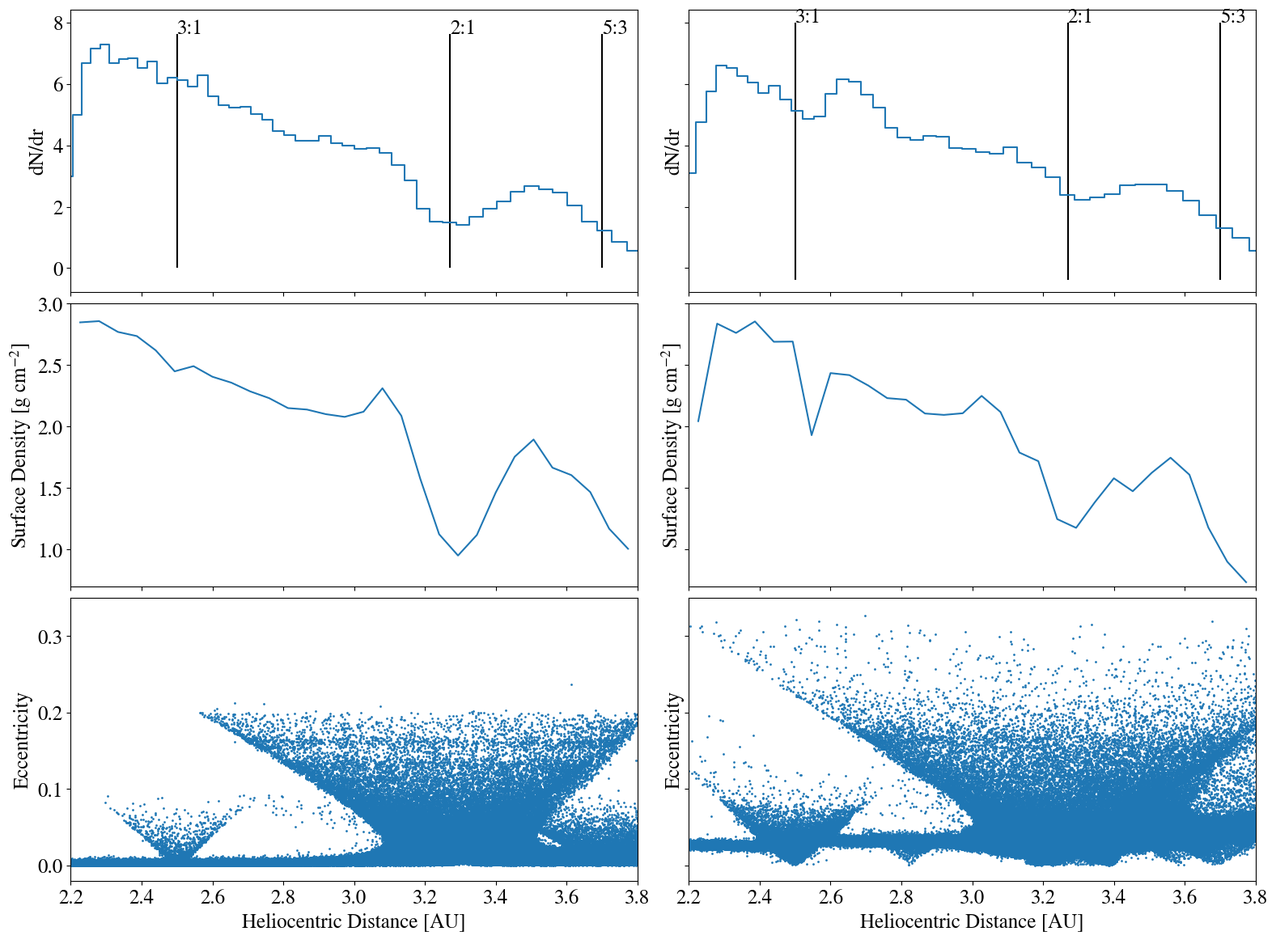
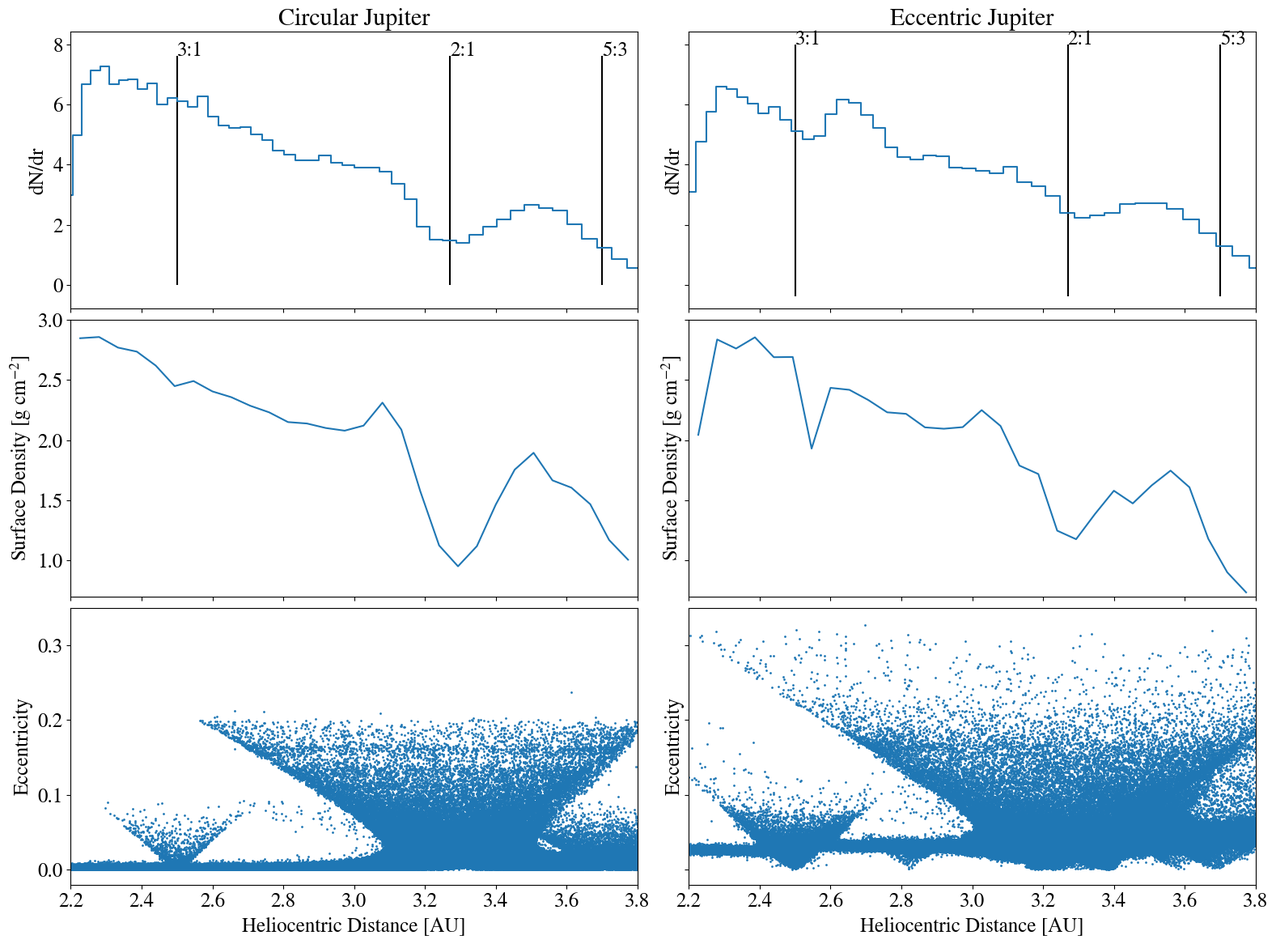
Finish results section

diff --git a/main.tex b/main.tex
@@ -78,8 +78,9 @@ the evolution of a planetesimal disk under the gravitational influence of an ext
 
 We begin by making the assumption that a typical encounter between planetesimals in a disk is well-described by two-body 
 dynamics. So long as the random velocities of planetesimals $v_{p}$ are large compared to the Hill velocity of a planetesimal $v_{h} 
-= \sqrt{G m_{p} / r_{h}}$, where $r_{h}$ is the Hill radius, the gravitational field of the central star will play an insignificant role and 
-can be safely ignored. In this case and assuming equal mass bodies, the collision rate is given by \citep{1967SvA....10..650S}
+= \sqrt{G m_{p} / r_{h}}$, where $r_{h}$ is the Hill radius, the gravitational field of the central star will play an insignificant role during a 
+encounter and can be safely ignored. In this case and assuming equal mass bodies, the collision rate is given by 
+\citep{1967SvA....10..650S}
 
 \begin{equation}\label{eq:safronov}
 	\sigma v = \pi r_{p}^2 \left( 1 + v_{esc}^2/v_{p}^2 \right) v_{p},
@@ -152,13 +153,13 @@ variations according to the Tisserand relation
 \end{equation}
 
 The net result of this is that isolated MMRs will produce 'spikes' in the semi-major axis vs eccentricity distribution of a planetesimal 
-disk. Following equation \ref{eq:tiss}, these spikes will tend to slightly curve away from the perturbing body. This tends to lower the surface 
+disk. Equation \ref{eq:tiss} predicts that these spikes will tend to slightly curve away from the perturbing body. This lowers the surface 
 density of the disk near the locations of resonances, while producing a pileup of bodies on eccentric orbits adjacent to the MMR. The 
 enhanced surface density will increase the collision rate, while the larger eccentricites will lower it due to the decreased effectiveness of 
-gravitational focusing. In addition, the MMRs will drive fast precession of the orbiting planetesimals, which effectively randomizes their 
-longitudes of perihelion. In the case of a secularly forced disk, there will be an interface between aligned and randomly oriented orbits at 
-the edge of the resonance. Due to the complicated dynamics that are likely at play near the edge of the resonant region, we turn to a direct 
-N-body treatment to better understand how the collision rate varies in the vicinity of a MMR.
+gravitational focusing. In addition, the MMRs cause the orbits of planetesimals to precess on relatively short timescales, which effectively 
+randomizes their longitudes of perihelion. In a secularly forced disk, there will be an interface between aligned and randomly oriented orbits 
+at the edge of the resonance. Due to the complicated dynamics that are at play in this region, we turn to a direct N-body treatment to better 
+understand how the collision rate varies in the vicinity of a MMR.
 
 \section{Simulations} \label{sec:sims}
 
@@ -228,12 +229,40 @@ reducing the effectiveness of gravitational focusing, while minimizing the addit
     \caption{Caption goes here.\label{fig:xy}}
 \end{figure*}
 
+\section{Results} \label{sec:results}
+
+We begin by examining the spatial distribution of planetesimals in the CJ and EJ simulations. The cylindrical position of the planetesimals 
+in the the CJ and EJ simulations after 5000 years of integration are shown in the left and right hand panels of  figure \ref{fig:xy}, 
+respectively. In the circular Jupiter case, a gap produced by the 2:1 MMR is visible, while the 3:1 and 5:3 MMR gaps are visible with an 
+eccentric Jupiter. The non-axisymmetric nature of the gaps is due to the fact that planetesimals in the vicinity of the resonances have been 
+excited onto non-circular orbits. Although the spatial distribution of planetesimals near MMR in debris disks may provide clues to detect 
+unseen planets, we will not focus on this topic here, as it has already been covered in detail by other studies \citep{2016ApJ...818..159T, 
+2018ApJ...857....3T}.
+
+The MMRs are most clearly visible when viewing the semimajor axis and eccentricity distribution of the planetesimals. This is shown 
+in figure \ref{fig:ae}. The top panel corresponds to the CJ simulation and the bottom panel corresponds to EJ. The solid vertical lines 
+in this plot represent the nominal locations of the resonances. Near the nominal resonance locations, the a-e distribution of the 
+planetesimals exhibits well-defined spikes which curve slightly inward due to conservation of the Jacobi energy. In the EJ simulation, 
+the eccentricity distribution of bodies near resonance extends below the initial forced value. This is a reflection of the fact that the resonant 
+angles of these bodies are undergoing libration, which drives periodic oscillations in both semimajor axis and eccentricity. The coupling 
+between these two quantities is described by equation \ref{eq:tiss}. Because the strength of the resonances scales with the initial 
+eccentricity of the planetesimals, the eccentricity spikes are larger in the EJ simulation. Additionally, the relative size of the 3:1 and 5:3 
+MMR spikes also grows because the strength of a MMR scales as $e^{q}$, where $q$ is the order of the resonance 
+\citep{1994PhyD...77..289M}.
+
 \begin{figure}
     \begin{center}
     \includegraphics[width=0.4\columnwidth]{figures/ae.png}
     \caption{Caption goes here.\label{fig:ae}}
     \end{center}
 \end{figure}
+
+The MMRs have an additional important effect, which is to drive precession of the longitudes of perihelion of planetesimals. 
+This effect becomes important in the EJ simulation because the orbits of bodies are initially aligned with that of Jupiter 
+(see section \ref{sec:sec_force}). As is shown in figure \ref{fig:long_ph}, the strong precession induced by the MMRs overcomes the 
+secular forcing and randomizes the orbital orientations of bodies near the resonances. The dashed horizontal lines in figure 
+\ref{fig:long_ph} indicate the libration width (should probably show the equation I used to calculate this) of a planetesimal with an 
+eccentricity of $e_{forced}$ at each resonance, which approximately shows the zone of influence of each MMR.
 
 \begin{figure}
     \begin{center}
@@ -249,66 +278,41 @@ reducing the effectiveness of gravitational focusing, while minimizing the addit
     \end{center}
 \end{figure}
 
-\section{Results} \label{sec:results}
-
-We begin by examining the spatial distribution of planetesimals in the CJ and EJ simulations. The cylindrical position of the planetesimals 
-in the the CJ and EJ simulations after 5000 years of integration are shown in the left and right hand panels of  figure \ref{fig:xy}, 
-respectively. In the circular Jupiter case, a gap produced by the 2:1 MMR is visible, while the 3:1 and 5:3 MMR gaps are visible with an 
-eccentric Jupiter. The non-axisymmetric nature of the gaps is due to the fact that planetesimals in the vicinity of the resonances have been 
-excited onto non-circular orbits. Although the spatial distribution of planetesimals near MMR in debris disks may provide clues to detect 
-unseen planets, we will not focus on this topic here, as it has already been covered in detail by other studies \citep{2016ApJ...818..159T, 
-2018ApJ...857....3T}.
-
-The MMRs are most clearly visible when viewing the semimajor axis and eccentricity distribution of the planetesimals. This is shown 
-in figure \ref{fig:ae}. The top panel corresponds to the CJ simulation and the bottom panel corresponds to EJ. The solid vertical lines 
-in this plot represent the nominal locations of the resonances. Near the nominal resonance locations, the a-e distribution of the 
-planetesimals exhibits well-defined spikes which curve slightly inward due to conservation of the Jacobi energy. In the EJ simulation, 
-the eccentricity distribution of bodies near resonance extends below the initial forced value. This is a reflection of the fact that these 
-bodies are undergoing libration, which drives periodic oscillations in both semimajor axis and eccentricity. The coupling between 
-these two quantities is described by equation \ref{eq:tiss}. In the EJ simulation, the eccentricity remains enhanced between the 
-MMRs due to the secular forcing by Jupiter. Because the strength of the resonances scales with the initial eccentricity of the planetesimals, 
-the eccentricity spikes are larger in the EJ simulation. Additionally, the relative size of the 3:1 and 5:3 MMR spikes also grows because the 
-strength of a MMR scales as $e^{q}$, where $q$ is the order of the resonance \citep{1994PhyD...77..289M}.
-
-The MMRs have one more effect, which is to drive precession of the longitudes of perihelion of planetesimals near 
-resonance. This effect becomes important in the EJ simulation, in which the orbits of bodies are initially aligned with that of Jupiter 
-(see section \ref{sec:sec_force}). As is shown in figure \ref{fig:long_ph}, the strong precession induced by the MMRs overcomes the 
-secular forcing and randomizes the orbital orientations of bodies near the resonances. The dashed horizontal lines in figure 
-\ref{fig:long_ph} indicate the libration width of a planetesimal with an eccentricity of $e_{forced}$ at each resonance, which 
-approximately shows the zone of influence of each MMR. It is important to note that the collision rate predicted by equation
-\ref{eq:safronov} assumes that the orbits of bodies are randomly oriented. Near the interface of the resonances, the N-body collision rate, 
-which we will examine next, is likely not well-described by the Safronov rate.
-
 \subsection{Collision Rates}\label{sec:coll_rates}
 
-As we have already discussed, the Safronov collision rate given by equation \ref{eq:safronov} suffers from two important limitations. The
-first is that the orbits of colliding bodies exhibit no preferred orientation. Second, as we will show below, the velocities of planetesimals 
-near the MMRs follows a bimodal distribution. This makes it difficult to characterize the planetesimals with a single 'typical' encounter 
-velocity and therefore predicting the collision rate using a statistical approach is far from straightforward.
+A prediction of the collision rate using the Safronov equation (eq \ref{eq:safronov}) and the positions and velocities of the planetesimals
+suffers from an important limitation. As we will show below, the velocities of planetesimals near the MMRs does not follow a unimodal 
+distribution. This makes it difficult to characterize the motion of the planetesimals with a single encounter velocity $v_{p}$ and so predicting 
+the collision rate using a statistical approach is far from straightforward. This operation becomes even more complicated with a secularly 
+perturbed disk where there is a transition between aligned and randomly oriented orbits near the interface of the resonances (see figure 
+\ref{fig:long_ph}.
 
 Figure \ref{fig:coll_hist_a} shows the semimajor axis of collisions resolved in the CJ (top) and EJ simulations (bottom). We define 
-'semimajor axis of a collision' as the semimajor axis of the first of the two planetesimals participating in a collision at the 
+the semimajor axis of a collision as the semimajor axis of the first of the two planetesimals participating in a collision at the 
 moment that it happens. To ensure that the definition of the first and second collider chosen by {\sc ChaNGa} does not influence 
-these results, we also tried constructing figure \ref{fig:coll_hist_a} using the second collider and found no qualitative differences. 
-Although both simulations were integrated and collisions were resolved for 5,000 years, we only show collisions that occurred during 
-the last 3,000 years of the simulations. Before this time, the resonant features in the semimajor axis-eccentricity distribution (see 
+these results, we also tried constructing figure \ref{fig:coll_hist_a} using the properties of the second collider and found no qualitative 
+differences. Although both simulations were integrated and collisions were resolved for 5,000 years, we only show collisions that occurred 
+during the last 3,000 years of the simulations. Before this time, the resonant features in the semimajor axis-eccentricity distribution (see 
 figure \ref{fig:ae}) were still developing and had not yet reached a steady state (the libration timescale of the MMRs we are interested in 
 turns out to be about 2,000 years). This results in transient features appearing in the collision profiles early on, which we exclude from 
 figure \ref{fig:coll_hist_a} and all subsequent figures.
 
 We find that the features present in figure \ref{fig:coll_hist_a} are highly sensitive to the choice of binning when constructing a standard 
 histogram and instead model the occurrence of collisions as a function of semimajor axis using a kernel density estimate (KDE). We use 
-the {\sc neighbors.KernelDensity} function from the {\sc sklearn} \citep{scikit-learn} package to construct our KDEs. For our kernel, we use 
+the {\sc neighbors.KernelDensity} function from the {\sc sklearn} \citep{scikit-learn} package to construct our KDEs. For the kernel, we use 
 a tophat function with a bandwidth of 0.01 AU.
 
-Most notably, the MMRs appear to have a measurable effect on the local collision rates. This is in contrast to \citet{2000Icar..143...45R}, 
-who simulated a similar setup and found no discernible features near the MMRs. We attribute the difference to a more careful treatment of 
-timestepping in our simulations. Slightly interior to the 2:1 resonance, the collision rate increases by a factor of roughly 2. In the EJ 
-simulation, there is a significant deficiency in the number of collisions near the 3:1 MMR. We attribute this to the fact that the strength of a 
-second order MMR scales as $e^{2}$, while a first order MMR scales linearly with $e$ \citep{1994PhyD...77..289M}. One would therefore 
-expect the 3:1 resonance to have more of an influence on the collision rate in a secularly perturbed disk. Although viewing the collision rate 
-as a function of semimajor axis demonstrates a clear connection between the resonances and the collision rate, this does not immediately 
-indicate where the dust generated by collisions will end up in the disk.
+Near some of the MMRs, there are noticeable suppressions or enhancements of the local collision rate. This contrasts with the findings of 
+\citet{2000Icar..143...45R}, who simulated a similar setup and found no discernible features near the MMRs. We attribute the differences to 
+a more careful treatment of timestepping in our simulations. Just interior to the 2:1 resonance, the collision rate is strongly enhanced. In the 
+EJ simulation, there is a significant deficiency in the number of collisions near the 3:1 MMR. This feature, although still present, is much 
+weaker in the CJ simulation. We attribute this to the fact that the strength of a second-order MMR scales as $e^{2}$, while a first order 
+MMR scales with $e$ \citep{1994PhyD...77..289M}. One would therefore expect the 3:1 resonance to have more of an influence on the 
+collision rate in a more eccentric disk. Although viewing the collision rate as a function of semimajor axis demonstrates a clear connection 
+between the resonances and the collision rate, this does not immediately indicate where the dust generated by collisions will end up in the 
+disk. (Why is the feature around the 3:1 MMR so different than the 2:1?)
+
+\subsection{Where Does the Dust End Up?}
 
 To construct a radial dust profile, we begin by making the assumption that any dust generated by collisions is strongly coupled to the 
 gas. For a dust grain larger than the mean free path of the gas particles, the timescale to damp its eccentricity is given by 
@@ -325,64 +329,45 @@ mm dust grain with a density of 1 g cm$^{-3}$ and an eccentricity of 0.05, the d
 orders of magnitude smaller than the collision timescale, therefore we conclude that collisionally generated dust grains will immediately 
 couple to the gas.
 
-Operating under this assumption, a map of the relative concentration of second-generation dust can be constructed from the cylindrical distance at which the collisions occur. This is shown in the top panels of figure \ref{fig:coll_hist_r}, where the left side corresponds to the CJ simulation and the right side corresponds to EJ. As in figure \ref{fig:coll_hist_a}, a kernel density estimate of the number of collisions is constructed using a tophat kernel with a bandwidth of 0.01 AU. Features again appear near the 2:1 and 3:1 MMRs in both simulations, although the shape of the features are qualitatively different from figure \ref{fig:coll_hist_a}. Near the 2:1 resonance, the radial collision rate is noticably suppressed. This is mainly due to the reduced surface density of planetesimals near the center of the resonance, shown in the second row of figure \ref{fig:coll_hist_r}. The surface density in the EJ simulation near this resonance is less suppressed than the CJ simulation due to the enhanced eccentricity of planetesimals in the vicinity. This also has the effect of washing out the feature created in the collision rate profile due to the 2:1 MMR.
+Operating under this assumption, a map of the relative concentration of second-generation dust can be constructed from the cylindrical 
+distance at which the collisions occur. This is shown in the top panels of figure \ref{fig:coll_hist_r}, where the left side corresponds to the CJ 
+simulation and the right side corresponds to EJ. As in figure \ref{fig:coll_hist_a}, a KDE of the collision rate is constructed using a tophat 
+kernel with a bandwidth of 0.01 AU.
 
-Additionally, a sharp, well-defined feature appears just exterior to the 3:1 MMR in the EJ simulation. A corresponding dip in the surface density at this same location suggests that the variation in the collision rate here is due to a lack of planetesimals in this location. Upon closer inspection, we find that the center of this feature lies at a a radial distance of $(1+e_{forced})a_{3:1}$, where $a_{3:1}$ is the nominal location of the 3:1 MMR and $e_{forced}$ is the forced eccentricity of a planetesimal at $a_{3:1}$. This distance corresponds to the aphelion distance of a planetesimal with these orbital parameters. Physically, the drop in the surface density here can be explained as follows: bodies near the 3:1 MMR experience strong precession, which randomizes their orbits and undergo libration which produces a large spread in their relative velocities. For a collection of randomly oriented eccentric orbits, there is less geometric overlap at aphelion, which lowers the surface density at this distance. Given the clear connection between the offset of this feature and the local forced eccentricity, we will examine the feasibility of using this feature to measure the eccentricity of the perturbing planet in section \ref{sec:dust} after we construct a dust emission map from the collision rate profile.
+In contrast to what was seen in figure \ref{fig:coll_hist_a}, the radial collision rate is now suppressed near the 2:1 MMR. The spike in the 
+collision rate at semimajor axes interior to this location becomes washed out when viewed instead by cylindrical distance because the 
+spread in the eccentricities of the colliding planetesimals is so large. Although many of the collisions happen at the same semimajor axis, 
+they occur at very different distances from the central star. The second row of figure \ref{fig:coll_hist_r} shows the azimuthally averaged 
+surface density of the planetesimal disk at the end of the simulations. These profiles were calculated using the {\sc PYNBODY} analysis 
+package \citep{2013ascl.soft05002P}.
 
-The bottom row of figure \ref{fig:coll_hist_r} demonstrates the difficulty with calculating the collision rate from the position and velocity distribution of particles. Typically, the rms velocity is defined as $\sqrt(\left<e^2\right> + \left<i^2\right>)$. In this case, the wings extending off of the resonances in the distance-eccentricity distribution makes the eccentricity dispersion distinctly bimodal and not well defined at nearly all radial distances. A naive calculation of the Safronov rate here would predict a collision rate near the resonances that is smaller than the actual value.
+In both the CJ and EJ simulations, the local minima in the surface density profiles match well with the minima in the collision rates. 
+Additionally, the minima in the EJ simulation are offset from the centers of the resonances. This can be explained as follows: for 
+planetesimals affected by the MMRs, the typical encounter velocity is large and gravitational focusing is suppressed. Here, the collision 
+cross section is geometric. In this limit, the collision probability scales with the ratio between the geometric cross section of the 
+planetesimals and the surface area of a sphere with radius $r$, where $r$ is the distance between the bodies and the central star. This 
+ratio, and therefore the collision probability, is largest when $r$ is minimized (see \citet{2003AJ....125.2692L}). Therefore, the collision 
+probability for planetesimals affected by resonance is smallest at aphelion. This is also consistent with the reduced surface density exterior 
+to the resonances.
+
+Finally, the bottom row of figure \ref{fig:coll_hist_r} demonstrates the difficulty with calculating the collision rate from the position and velocity 
+distribution of particles. At a given distance from the central star, the distribution of velocities (using eccentricity as a proxy for typical encounter 
+velocity), is not unimodal. In addition, the wings extending off of the resonances in these plots show that planetesimals can interact and collide 
+with bodies far from the centers of the resonances. The bump seen in the collision rate in the EJ simulation around 2.7 AU is like a result of the 
+complicated interaction between planetesimals in the 3:1, 5:2 and 2:1 resonances.
+
+So far, we have shown that mean-motion resonances with a perturbing giant planet will produce measureable radial variations in the collision rates across a disk of planetesimals, which should give rise to variations in the dust profile. In addition, distinctly different features are produced if the giant planet is on an eccentric, rather than a circular orbit. In the next section, we would like to determine whether these features can be used to place any constraints on the mass and eccentricity of the planet.
 
 \begin{figure*}
     \includegraphics[width=\textwidth]{figures/coll_hist_r.png}
     \caption{Caption goes here.\label{fig:coll_hist_r}}
 \end{figure*}
 
-%Next, we move on to examine the statistics of the collisions that occur. Figure \ref{fig:coll_hist_a} shows the distribution of semimajor axes of every collision that is resolved. Here, the semimajor axis of a collision is defined as the semimajor axis of the first body participating in the collision at the moment that it occurs. During a collision, the determination of which body is first and which is second is determined by the collision search tree in {\sc ChaNGa}. To ensure that this does not introduce any bias, we also constructed figure \ref{fig:coll_hist_a} using the orbital parameters of the second body and found no qualitative difference. By examining the semimajor axis distribution of the collisions, it is easy to see how the MMRs affect the collision rates. The dashed lines again represent the libration width of each resonance and are meant to show its range of influence. In both the circular and eccentric Jupiter simulations, the collision rate is clearly enhanced interior to the 2:1 MMR. The 3:1 MMR only appears to have a noticeable influence on the collision rate in the EJ simulation. In both cases, although the 5:3 MMR has a clear influence on the on the semimajor-axis eccentricity distribution, it does not leave a measureable imprint on the collision rate. It is important to point out, however, that the libration width of sufficiently eccentric particles near the 5:3 MMR may extend beyond the outer edge of the disk and introduce boundary effects.
+\section{Influence of Jupiter's Mass and Eccentricity on the Radial Dust Profile}
 
-%Although the semimajor axis of a particle at the moment of collision provides useful information about how the mean motion resonances affect the collision rate in the disk, this information alone is not enough to predict where the second generation dust that is produced will end up. To do so, we will operate under the assumption that dust grains produced by collision events will quickly couple to the gas and attain a circular orbit. This assumption, which will be further justified in section \ref{sec:dust}, allows to map the radial variation in the dust surface density to the radial position of the collisions. This is shown in figure \ref{fig:coll_hist_r}, where the histograms indicate the x and y coordinates of a body at the moment that it undergoes a collision.
+\section{Observability of Dust} \label{sec:dust}
 
-%Explanation of offset of feature near 3:1 in EJ: orbital orientations randomized near MMR, most bodies have ecc of e_forced, even in resonance. Geometrically, less overlap at apo, so surface density drops and so does coll rate.
-Most notably, the prominent features visible in figure \ref{fig:coll_hist_a} adjacent to the 2:1 MMR no longer appear. This is due to the 
-fact that the orbits of bodies in the 2:1 MMR have a wide range of eccentricities and therefore have the potential to undergo 
-collisions at a wide range of heliocentric distances. In the CJ simulation, there is a prominent dip in the collision rate near the 2:1 
-MMR. This feature is still moderately visible in the EJ simulation, but the dip is much wider and shallower. The random orientations of 
-the orbits inside of the resonance (see figure \ref{fig:long_ph}), combined with the forced eccentricites of planetesimals adjacent to 
-the resonance weakens the dip near the 2:1 MMR seen in the left hand panel of figure \ref{fig:coll_hist_a}. Additionally, there is a 
-double-pronged feature in the collision rate near the 3:1 MMR in the EJ simulation. The radial distance of these two prongs 
-corresponds to the maximum radial excursion that a planetesimal at the 3:1 MMR with an eccentricity set by secular forcing with 
-Jupiter undergoes. (Need more explanation of why this happens)
-
-As is seen in figure \ref{fig:long_ph}, the relatively fast precession rates induced by the mean motion resonances overpower the 
-secular forcing by Jupiter and randomize the orientation of orbits near the nominal resonance locations. Of course, this difference in 
-longitude of perihelion of bodies inside and outside of resonance is only present in the EJ simulation because the Jupiter imposes 
-zero forced eccentricity on the disk when it has a circular orbit. Figure \ref{fig:m_hist} provides another view of the difference in 
-collision statistics inside and outside and of resonance. This shows the mean anomalies of bodies at the moment that they undergo a 
-collision. The top row corresponds to the EJ simulation and the bottom rom corresponds to the CJ simulation. The left panels 
-correspond to collisions that occur inside of the 2:1 MMR and the right panels are for collisions that occur with a semimajor axis 
-between 2.7 and 2.8 AU, which is meant to well away from the influence of any resonances. The semimajor axis window size in the 
-right hand panel is chosen so that both histograms contain the same total number of collisions.
-
-The qualitative differences between these four panels can be explained in the following way: for $\approx$ 100 km bodies, 
-gravitational focusing plays a significant role in setting the collision rate. In regions of the disk where the rms eccentricity is small 
-(which corresponds to a small velocity dispersion), the collision rate should be enhanced (see equation \ref{eq:safronov}). Inside of 
-resonances, planetesimals undergo large amplitude libration which pumps up the eccentricity dispersion. This effect is visible in 
-figure \ref{fig:ae} for both the EJ and CJ simulation. This implies that the collision rate should be geometric, and not depend on the 
-velocity dispersion near resonances. When this is true, collisions should preferentially occur near perihelion. The reason for this is 
-that in the geometric limit, the collision probability scales with the ratio between the geometric cross section of the two planetesimals 
-and the surface area of a sphere with radius $r$, where $r$ is the distance between the bodies and the central star. This ratio, and 
-therefore the collision probability, is largest when $r$ is minimized (see \citet{2003AJ....125.2692L}). The fact both of the left-hand 
-panels in figure \ref{fig:m_hist} show a distinct lack of collisions near aphelion is consistent with this explanation.
-
-Note that this trend is not present in the right-hand panels of figure \ref{fig:m_hist}. In the case with Jupiter on a circular orbit (bottom right panel), there is a spike in the collision rate both at perihelion and aphelion. The perihelion spike is still due to the geometric argument presented in the previous paragraph. The aphelion spike is due to the effect of gravitational focusing. At aphelion, bodies achieve their minimum speed. This lowers the relative velocity between planetesimals, which according to equation \ref{eq:safronov} should enhance the collision rate. Note that the collision rate does not exhibit much dependence on mean anomaly outside of resonance in the case with Jupiter on an eccentric orbit (top right panel). This is due to the secular forcing by Jupiter, which aligns the longitude of perihelia of adjacent planetesimals. The result of this is that bodies maintain similar relative speeds over the course of an orbit, even though the orbit is eccentric. This lack of variation in the relative speeds makes collisions equally likely at any orbital phase.
-
-Motivate the assumption that dust produced in collisions immediately goes onto circular orbit
-
-Discuss figure 5, hilight differences between surface density distribution and collision histogram. Calculation of safronov rate is hard because velocity distribution is bimodal in many places. Key features to point out: 2:1 MMR shows up well in CJ. Much more washed out in EJ, while 3:1 becomes more prominent. Also both features in EJ are shifted to the right of resonance location by a factor of (1+$e_{forced}$. This could be a viable way to measure ecc of the perturber.
-
-\section{Observability of Collisions} \label{sec:dust}
-
-Have aaron make a CASA dust emission map for the two histograms in figure 5. Fit a gaussian to the radial features and see if we can back out the eccentricity of the perturber and its mass. Also make 2d histogram showing how the perturbers eccentricity (which sets the forced eccentricity) and mass sets the libration width.
-
-\section{Measuring Properties of the Perturber} \label{sec:fitting}
+Aaron's CASA images go here
 
 \section{Summary and Discussion} \label{sec:discuss}
 

diff --git a/makeFig.py b/makeFig.py
@@ -147,12 +147,14 @@ def make_xy():
 	ax1.scatter(x_c_rot[0], y_c_rot[0], color='r')
 	ax1.set_xlabel('X [AU]')
 	ax1.set_ylabel('Y [AU]')
+	ax1.set_title('Circular Jupiter')
 	ax1.set_xlim(-5.5, 5.5)
 	ax1.set_ylim(-5.5, 5.5)
 	ax2.scatter(x_e_rot, y_e_rot, s=s)
 	ax2.scatter(x_e_rot[0], y_e_rot[0], color='r')
 	ax2.set_xlabel('X [AU]')
 	ax2.set_ylabel('Y [AU]')
+	ax2.set_title('Eccentric Jupiter')
 	plt.savefig(file_str, format=fmt, bbox_inches='tight')
 
 	plt.savefig(file_str, format=fmt, bbox_inches='tight')
@@ -180,18 +182,20 @@ def make_ae():
 
 	# Libration width varies with eccentricity so it doesn't make much sense
 	# to do show_widths=True here
-	fig, (ax1, ax2) = plt.subplots(figsize=(8,8), nrows=2, ncols=1, sharex=True)
+	fig, (ax1, ax2) = plt.subplots(figsize=(8,8), nrows=2, ncols=1, sharex=True, sharey=True)
 	ax1.scatter(pl_c['a'], pl_c['e'], s=s)
 	plot_res(ax1, show_widths=False)
 	ax1.set_ylabel('Eccentricity')
+	ax1.set_title('Circular Jupiter')
 	ax2.scatter(pl_e['a'], pl_e['e'], s=s)
 	plot_res(ax2, show_widths=False)
 	ax2.set_xlim(2, 4)
 	ax2.set_xlabel('Semimajor Axis [AU]')
 	ax2.set_ylabel('Eccentricity')
+	ax2.set_title('Eccentric Jupiter')
 	# sharey=true hides the tick labels
 	ax2.yaxis.set_tick_params(labelleft=True)
-	plt.tight_layout(h_pad=0)
+	#plt.tight_layout(h_pad=0)
 	plt.savefig(file_str, format=fmt, bbox_inches='tight')
 
 def make_long_ph():
@@ -219,13 +223,15 @@ def make_coll_hist_a():
 	ax1.plot(coll_bins_a_c, coll_pdf_a_c, linestyle='steps-mid')
 	plot_res(ax1, show_widths=False)
 	ax1.set_ylabel('dN/da')
+	ax1.set_title('Circular Jupiter')
 	ax2.plot(coll_bins_a_e, coll_pdf_a_e, linestyle='steps-mid')
 	plot_res(ax2, show_widths=False)
 	ax2.set_xlabel('Semimajor Axis [AU]')
 	ax2.set_ylabel('dN/da')
+	ax2.set_title('Eccentric Jupiter')
 	# sharey=true hides the tick labels
 	ax2.yaxis.set_tick_params(labelleft=True)
-	plt.tight_layout(h_pad=0)
+	#plt.tight_layout(h_pad=0)
 	plt.savefig(file_str, format=fmt, bbox_inches='tight')
 
 def make_coll_hist_r():
@@ -250,6 +256,7 @@ def make_coll_hist_r():
 	ax[0][0].plot(coll_bins_r_c, coll_pdf_r_c, linestyle='steps-mid')
 	plot_res(ax[0][0])
 	ax[0][0].set_ylabel('dN/dr')
+	ax[0][0].set_title('Circular Jupiter')
 	ax[1][0].plot(p_c['rbins'], surf_den_c)
 	ax[1][0].set_ylabel(r'Surface Density [g cm$^{-2}$]')
 	ax[1][0].set_ylim(0.7, 3)
@@ -262,6 +269,7 @@ def make_coll_hist_r():
 	ax[0][1].plot(coll_bins_r_e, coll_pdf_r_e, linestyle='steps-mid')
 	plot_res(ax[0][1])
 	ax[0][1].set_ylabel('dN/dr')
+	ax[0][1].set_title('Eccentric Jupiter')
 	ax[1][1].plot(p_e['rbins'], surf_den_e)
 	ax[1][1].set_ylabel(r'Surface Density [g cm$^{-2}$]')
 	ax[2][1].scatter(r_e, pl_e['e'], s=1)
@@ -323,9 +331,8 @@ def make_m_hist():
 	plt.savefig(file_str, format=fmt, bbox_inches='tight')
 
 
-#make_xy()
-#make_ae()
-#make_long_ph()
-#make_coll_hist_a()
-#make_coll_hist_r()
-#make_m_hist()
+make_xy()
+make_ae()
+make_long_ph()
+make_coll_hist_a()
+make_coll_hist_r()
